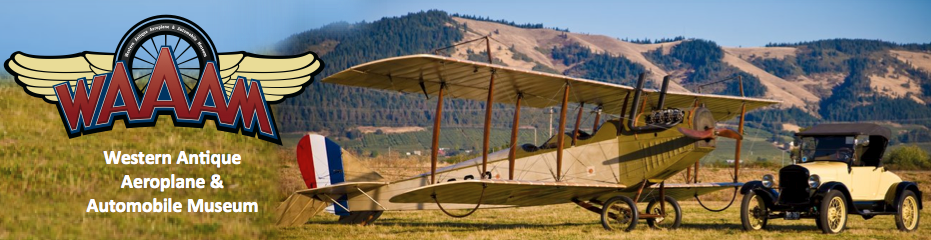
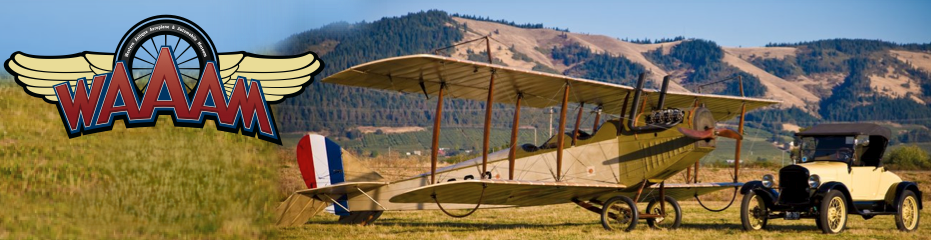
Added footer
Edited image, made footer responsive

Changed region(s): [[0.0623, 0.5542, 0.2803, 0.9625]]

diff --git a/src/style.css b/src/style.css
@@ -9,23 +9,98 @@ header{
 	padding: 50px 50px 50px 50px;
 }
 header {
-  background-image: linear-gradient(rgba(0, 0, 0, 0.3), rgba(0, 0, 0, 0.4)),
+  background-image: linear-gradient(rgba(0, 0, 0, 0.3), rgba(0, 0, 0, 0.3)),
     url("../img/WAAAM-cars-planes-inside.jpg");
   color: aliceblue;
   background-repeat: no-repeat;
   background-size: cover;
   text-align: center;
-  max-width:931px;
+  max-width: 1000px;
+}
+footer {
+    background-image: url("../img/banner-WAAAM.png");
+    filter: grayscale(80%);
+    background-size: cover;
+    background-repeat: no-repeat;
+    background-position: center;
+    text-align: center;
+    color: aliceblue;
+    max-height: 500px;
+    max-width: 1100px;
+    margin: 0 auto;
 }
 
+footer h4 {
+    font-weight: 700;
+    font-size: 14px;
+    line-height: 20px;
+}
+
+footer p {
+    font-weight: 400;
+    font-size: 12px;
+    line-height: 24px;
+}
+
+footer ul {
+    padding: 0;
+}
+
+footer li {
+    list-style: none;
+    margin: 0;
+    padding: 0;
+    font-size: 10px;
+}
+
+footer a {
+    color: #FDECCE;
+}
+
+section {
+    max-width: 1100px;
+    margin: 0 auto;
+    text-align: center;
+}
 .hero h1{
 font-size: 50px;
 padding: 10px;
 }
 .visit-button{
+    font-family: 'Gill Sans', 'Gill Sans MT', Calibri, 'Trebuchet MS', sans-serif;
     background: #FDECCE;
     border-radius: 5px;
-    outline: navy;
+    outline: none;
+}
+.grid .container{
+    display: grid;
+    grid-template-columns: 1fr 2fr 1fr;
+}
+.grid-item{
+    padding:10px;
+}
+.grid-item h4{
+    padding:0px;
+    margin:0 auto;
+}
+.grid-item p{
+    margin-top: 0;
+}
+.grid-item-1{
+    margin-top: 110px;
+    margin-left: 50px;
+}
+.grid-item-1 h4{
+    margin:0;
+    padding: 0;
+    line-height: 0;
+}
+.grid-item-1 p{
+    margin: 0;
+    padding: 0;
+}
+.bottom-grid-item{
+margin: 0 auto;
 }
 
 @media(max-width:800px){
@@ -39,4 +114,41 @@ padding: 10px;
     header h2{
         font-size:20px;
     }
+    footer img{
+        width: 2000px;
+        height: 600px;
+    }
+    .grid-item-2{
+        margin-left: 45px;
+    }
+}
+
+@media(min-width:800px){
+h4{
+    line-height: 10px;
+}
+.grid-item-2{
+    margin-left: 80px;
+}
+}
+@media(max-width:600px){
+ .grid-item-1{
+        margin-top: 0;
+    }
+    .grid-item-1 h4{
+    line-height: 10px;
+    padding: 1px;
+}
+}
+@media(max-width:650px){
+ .grid-item-1{
+        margin-top: 30px;
+    }
+    .grid-item-1 h4{
+    line-height: 10px;
+    padding: 1px;
+}
+.grid-item-2{
+    margin-left: 10px;
+}
 }

diff --git a/index.html b/index.html
@@ -14,6 +14,41 @@
 <button class="visit-button">Visit WAAAM</button>    
 </div>
     </header>
-    <footer>Coded with love by <a href="https://www.linkedin.com/in/aurora--thomas/">Aurora Thomas</a>, open-sourced on <a href="https://github.com/auborealis-cyber/travel-project">GitHub</a> and hosted on <a href="https://waaamuseum.netlify.app/">Netlify</a></footer>
+     <h2>hello</h2>
+    <footer>
+        <section class="grid">
+        <div class="container"> 
+            <div class="grid-item">
+                <div class="grid-item-1">
+            <h4>Ways to Visit</h4>
+            <ul>
+                <li>
+                    <a href="#" target="_blank">Portland Airport Website</a>
+                </li>
+                <li>
+                    <a href="#" target="_blank">Map of Hood River</a>
+                </li>
+                <li>
+                    <a href="#" target="_blank">Ways to get there</a>
+                </li>
+            </ul>
+            </div>
+            </div>
+            <div class="grid-item"> 
+                <div class="grid-item-2">  
+                <h4>About Me</h4>
+                <p>Hi!  My name is Aurora Thomas and I've been volunteering for the museum.  Everytime I go here I'm amazed at the machines and all the volunteers that upkeep them.  I created this page as part of a project to develop my coding skills</p>
+                </div>
+                </div> 
+                <div class="grid-item">
+                <h4>About this website</h4>
+                <p>I created this page as part of a project for SheCodes Resposive to improve my coding skills</p>
+            </div>
+    </section>
+    </div>
+    </footer>
+    <div class="bottom-grid-item">
+         <p>Coded with love by <a href="https://www.linkedin.com/in/aurora--thomas/" target="_blank">Aurora Thomas</a>, open-sourced on <a href="https://github.com/auborealis-cyber/travel-project" target="_blank">GitHub</a> and hosted on <a href="https://waaamuseum.netlify.app/" target="_blank">Netlify</a></p>
+        </div>
 </body>
 </html>
